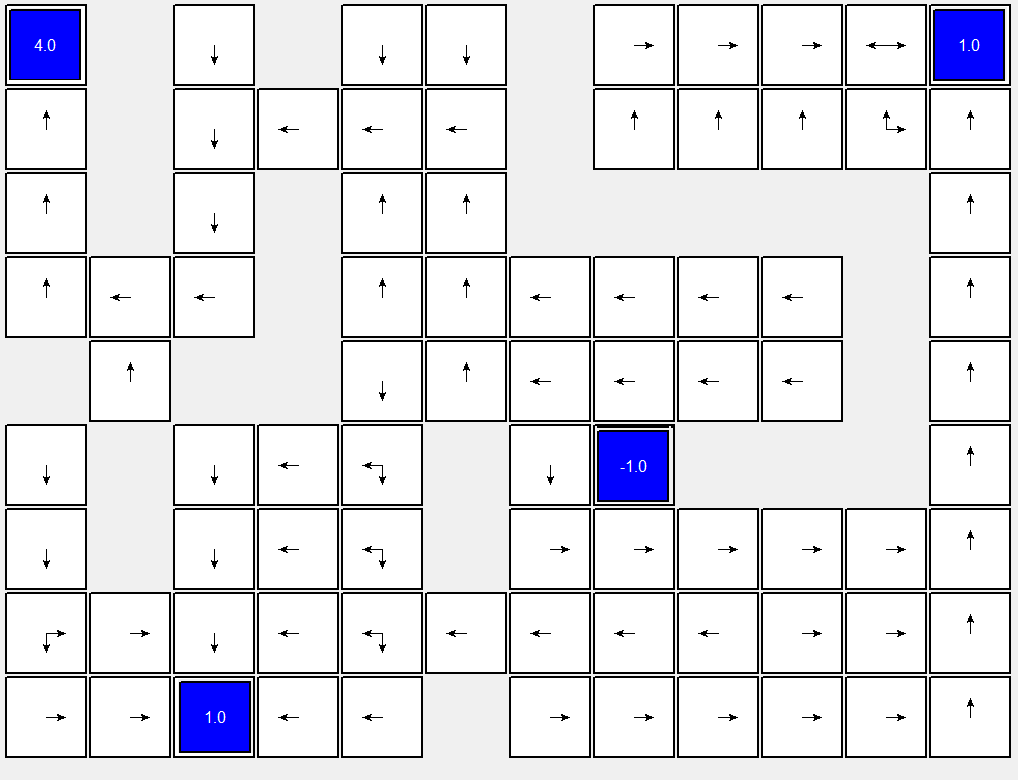
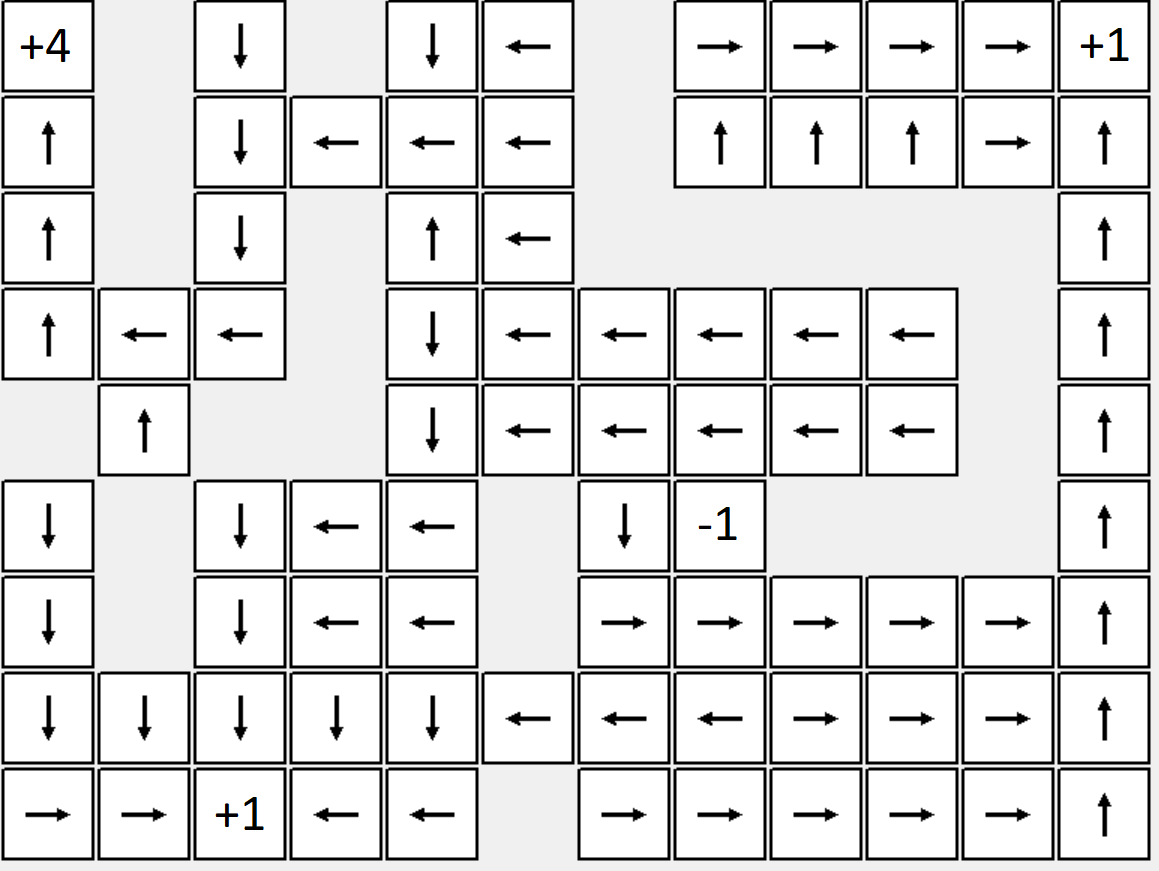
Cleaner plots

Changed region(s): [[0.0, 0.0, 1.0, 1.0]]

diff --git a/src/gridrender.py b/src/gridrender.py
@@ -49,7 +49,7 @@ def draw_square_q(polygon, x, y, q, actions, dim=50):
             polygon.create_text(x + dim / 2., y + dim / 4., font=font, text="{:.3f}".format(q[i]), anchor='s')
 
 
-def draw_square_policy(w, x, y, pol, actions, dim=30):
+def draw_square_policy(w, x, y, pol, actions, dim=30, width=1):
     w.create_polygon([x, y, x + dim, y, x + dim, y + dim, x, y + dim], outline='black',
                      fill='white', width=2)
 
@@ -65,19 +65,23 @@ def draw_square_policy(w, x, y, pol, actions, dim=30):
         if j < len(actions):
             a = actions[j]
             if a == 0 and v > 0:
-                w.create_line(x + dim / 2., y + dim / 2., x + 3*dim / 4., y + dim / 2., tags=("line",), arrow="last")
+                w.create_line(x + dim / 4., y + dim / 2., x + 3*dim / 4., y + dim / 2., tags=("line",), arrow="last",
+                              width=width)
                 if not np.isclose(v, 1.):
                     w.create_text(x + 3*dim / 4., y + dim / 2., font=font, text="{:.1f}".format(v), anchor='w')
             elif a == 1 and v > 0:
-                w.create_line(x + dim / 2., y + dim / 2., x + dim / 2., y + 3* dim / 4., tags=("line",), arrow="last")
+                w.create_line(x + dim / 2., y + dim / 4., x + dim / 2., y + 3* dim / 4., tags=("line",), arrow="last",
+                              width=width)
                 if not np.isclose(v, 1.):
                     w.create_text(x + dim / 2., y + 3*dim / 4., font=font, text="{:.1f}".format(v), anchor='n')
             elif a == 2 and v >0:
-                w.create_line(x + dim / 2., y + dim / 2., x+dim/4., y + dim/2., tags=("line",), arrow="last")
+                w.create_line(x + 3 *dim / 4., y + dim / 2., x+dim/4., y + dim/2., tags=("line",), arrow="last",
+                              width=width)
                 if not np.isclose(v, 1.):
                     w.create_text(x + dim / 4., y + dim / 2., font=font, text="{:.1f}".format(v), anchor='e')
             elif a == 3 and v >0:
-                w.create_line(x + dim / 2., y + dim / 2., x + dim / 2., y + dim / 4., tags=("line",), arrow="last")
+                w.create_line(x + dim / 2., y + 3 *dim / 4., x + dim / 2., y + dim / 4., tags=("line",), arrow="last",
+                              width=width)
                 if not np.isclose(v, 1.):
                     w.create_text(x + dim / 2., y + dim / 4., font=font, text="{:.1f}".format(v), anchor='s')
 
@@ -123,7 +127,7 @@ def render_non_det_policy(env, policy_array):
         allowed_actions = policy_array[s]
 
         draw_square_policy(w, 10 + c * (dim + 4), 10 + r * (dim + 4), dim=dim, pol=allowed_actions,
-                           actions=range(4))
+                           actions=range(4), width=3)
         w.pack()
     w.pack()
     root.mainloop()

diff --git a/src/option_iteration.py b/src/option_iteration.py
@@ -114,7 +114,7 @@ class option_gridworld:
         return q_estimate
 
 
-    def IOVI(self, vi_steps=100, option_updates=100, regularizer=0.95, horizon=30, monitor_performance=None, epsilon=0.):
+    def IOVI(self, vi_steps=100, option_updates=100, horizon=30, monitor_performance=None, epsilon=0.):
         """
         Use the IOVI procedure to train skills by interrrupting the initial options.
 
@@ -144,8 +144,7 @@ class option_gridworld:
 
             for idx, option in enumerate(current_options):
                 option['term'] = np.maximum(initial_options[idx]['term'],
-                                        (current_Q[:, idx] < np.max(current_Q, axis=1) - regularizer * alpha[idx, :]).astype(float))
-                alpha[idx, :] = option['term'] < 1
+                                (current_Q[:, idx] < np.max(current_Q, axis=1)).astype(float))
 
         if monitor_performance:
             p.plot(performance_record)
@@ -376,7 +375,8 @@ def trainer(grid, dump_name=None, iovi_iters=200, option_updates=70, horizon=15,
     terminal_positions = [(0, 0), (0, 11), (8, 2), (5, 7)]):
 
     example = option_gridworld(grid=grid, terminal_positions=terminal_positions, noise=noise)
-    example.IOVI(vi_steps=iovi_iters, option_updates=option_updates, horizon=horizon, epsilon=epsilon, monitor_performance=monitor)
+    example.IOVI(vi_steps=iovi_iters, option_updates=option_updates, horizon=horizon, epsilon=epsilon,
+                 monitor_performance=monitor)
     if dump_name is not None:
         pickle.dump(example, open(dump_name + 'goodboy.pkl', 'wb'))
     return example

diff --git a/demo.py b/demo.py
@@ -35,7 +35,7 @@ if __name__ == '__main__':
 
 
     # example = src.option_iteration.trainer(full_grid, dump_name='full_grid_4', horizon=horizon, iovi_iters=10000,
-    #                                        option_updates=15, epsilon=0.1, monitor=None, noise=0.)
+    #                                        option_updates=15, epsilon=0.1, monitor=1000, noise=0.)
     example = pickle.load(open('saves/full_grid_4_verygoodboy.pkl', 'rb'))
     example.render_terminations()
 
